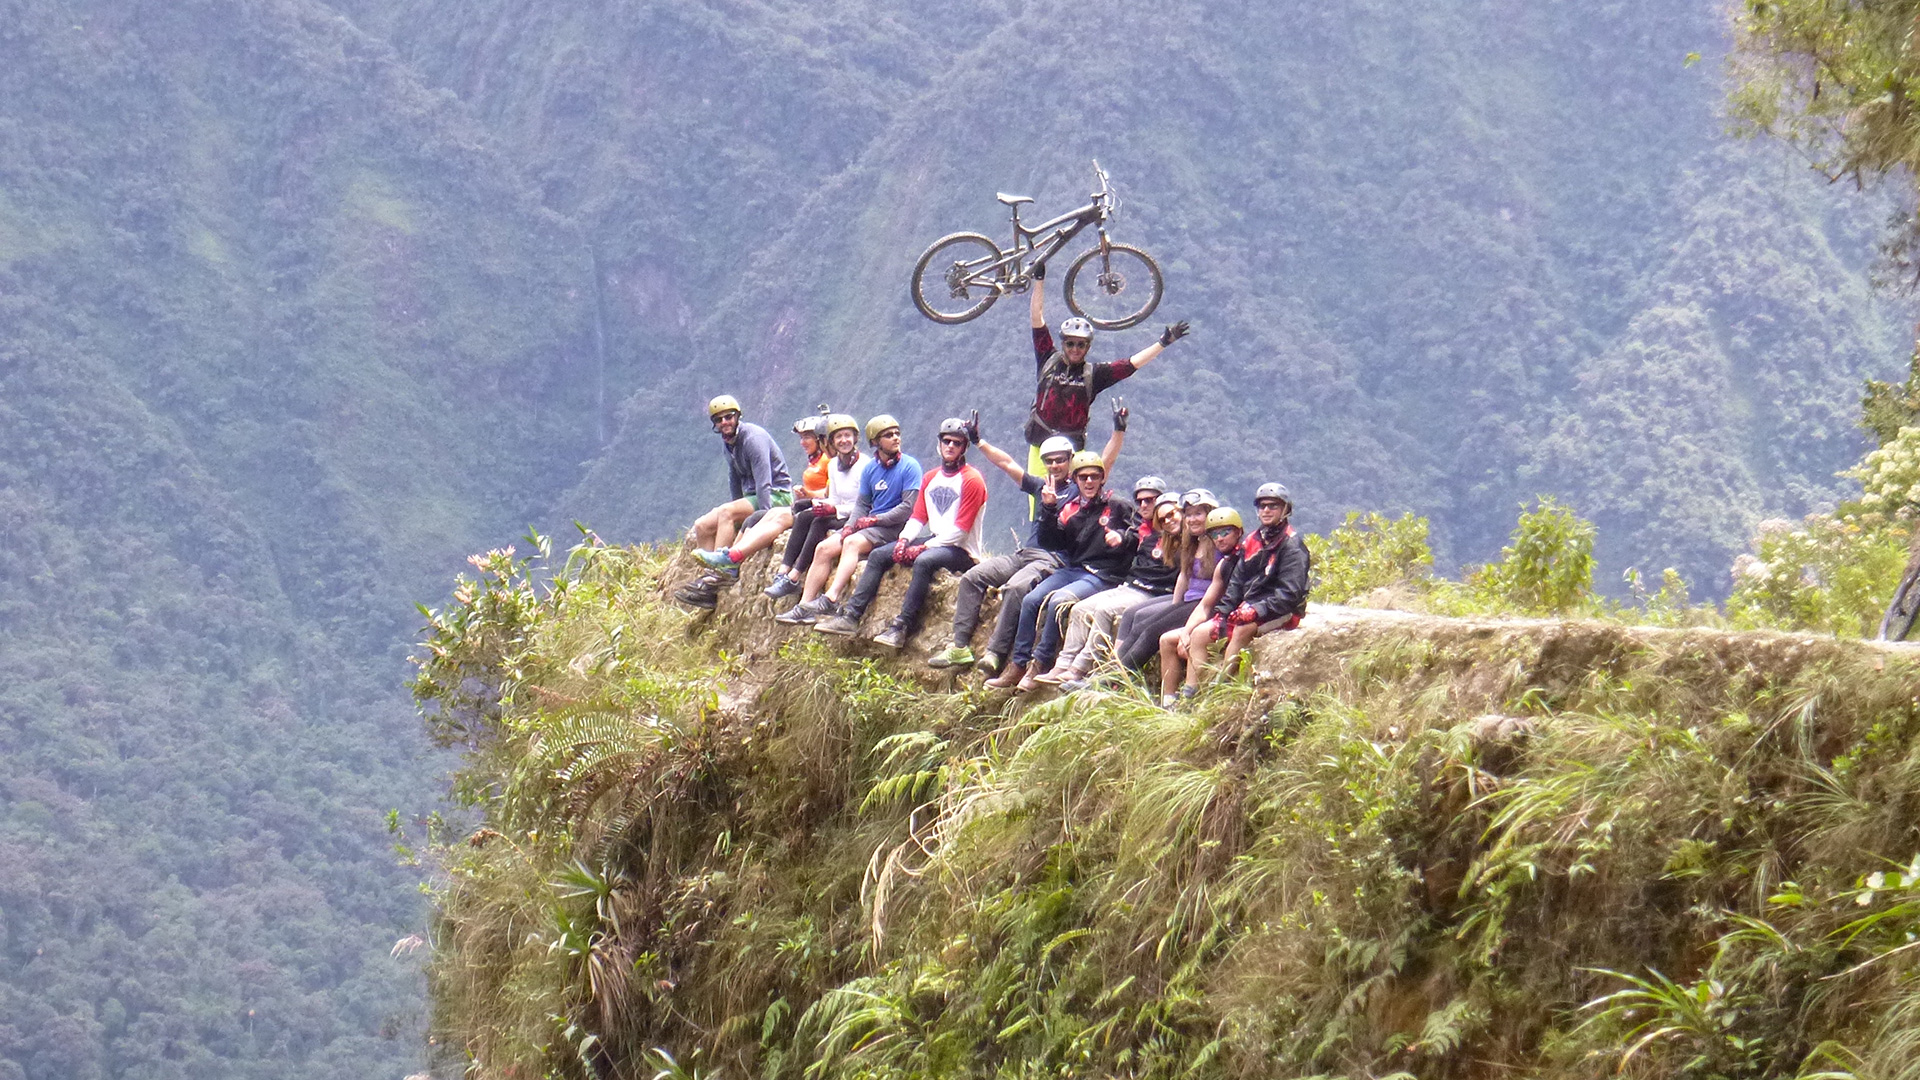
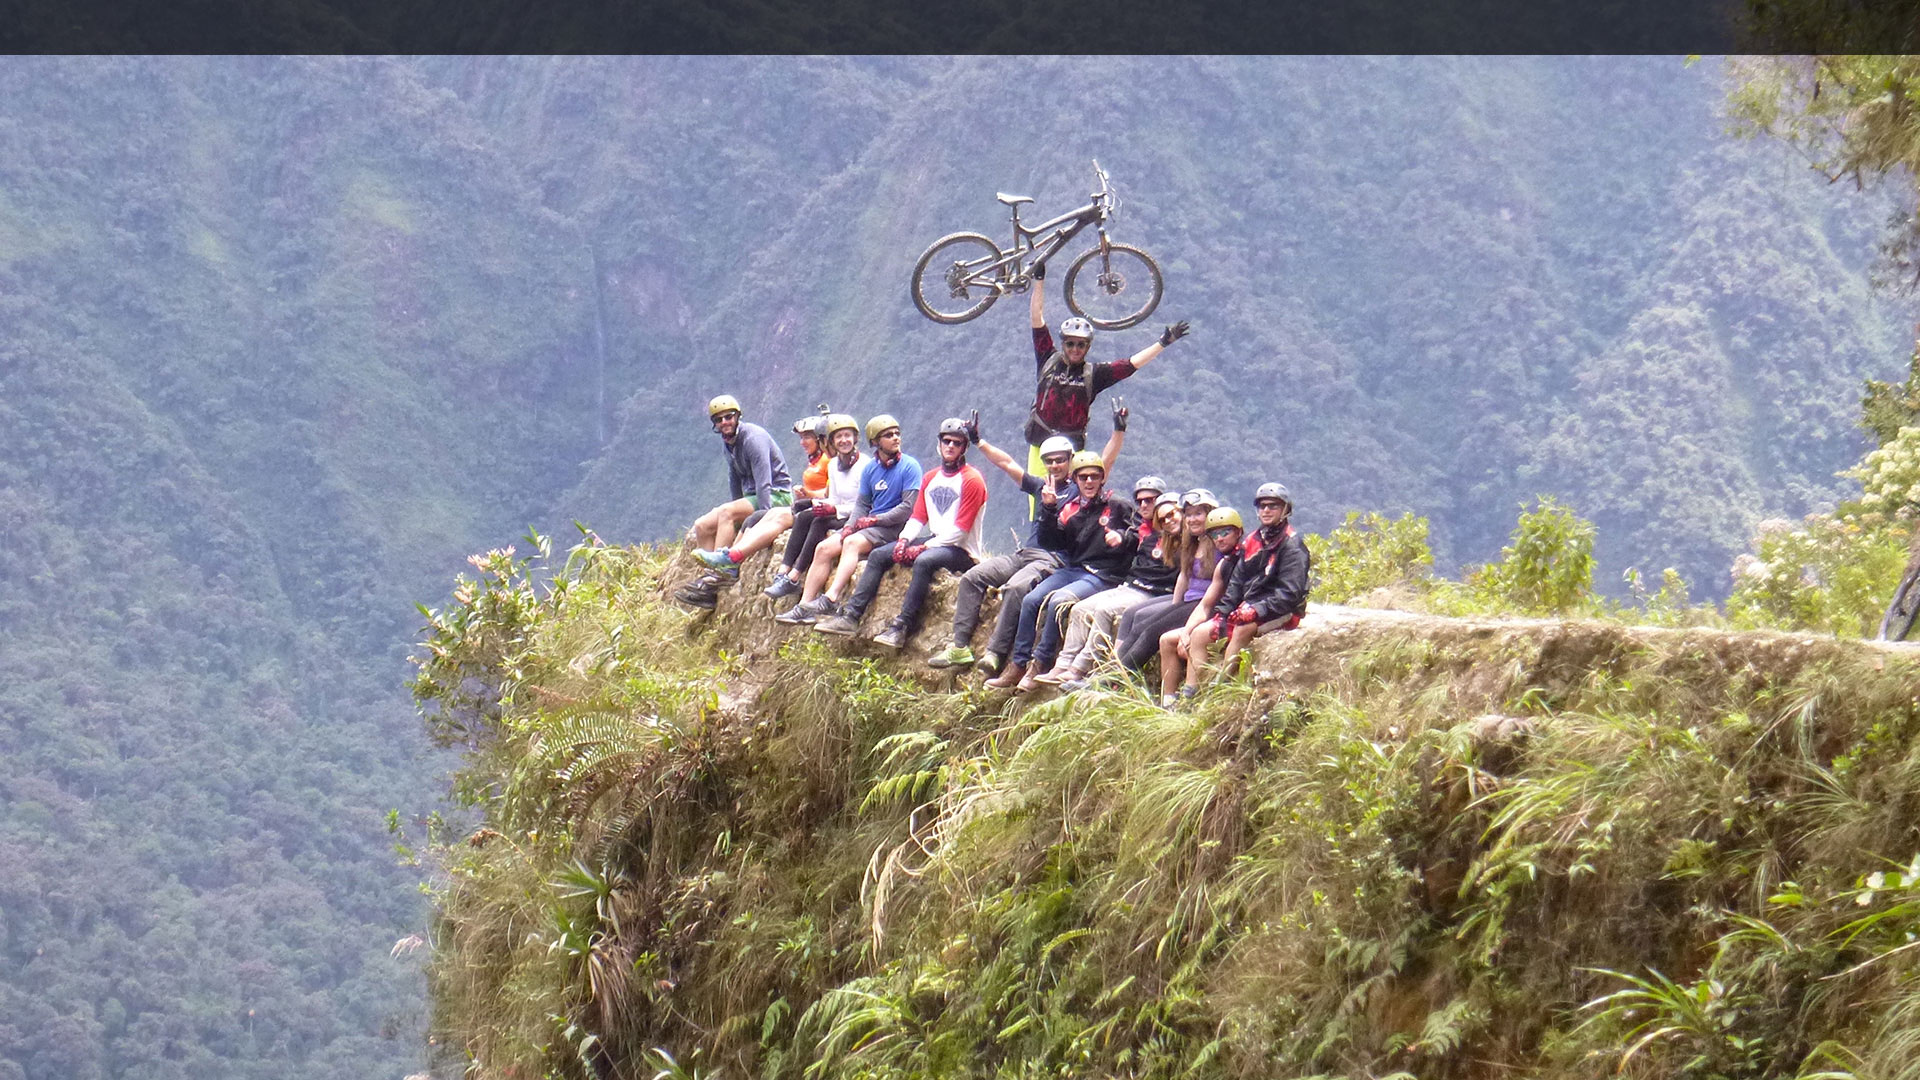
Imagenes con texto.

Changed region(s): [[0.0, 0.0, 1.0, 0.0611]]

diff --git a/index.html b/index.html
@@ -46,13 +46,21 @@
 }
 
 #section1 h1{
-	color: #CCC;
+	color: #DB6D00;
 	size: 28px;
 }
 #fondoBlanco{
 	background-color:#FFFFFF;
 	height:200px;
 	width:350px;
+}
+#infoService{
+	display: inline-block;
+	/* overflow: auto; */
+	width:450px;
+	height:200px;
+	margin-top:-250px;
+	text-align:left;
 }
     
 </style>
@@ -64,18 +72,21 @@
 		<li data-menuanchor="page1" class="active"><a href="#page1">Home</a></li>
 		<li data-menuanchor="page2"><a href="#page2">Services</a></li>
 		<li data-menuanchor="page3"><a href="#page3">Events</a></li>
-		<li data-menuanchor="page4"><a href="#page4">Contact</a></li>
+		<li data-menuanchor="page4"><a href="#page4">Contact us</a></li>
 	</ul>
 
     <div id="pagepiling">
         <div class="section" id="section1">
 			<h2>Join to the biggest bike community in Canada</h2>
-			<h1>bicycle repair, ride, community, parts</h1>
+			<h1>bicycle repair and parts, competitions, seminars, <br />
+		    and more!</h1>
 			
 		</div>
         <div class="section" id="section2">
-    
-<ul>
+        <div id="infoService">
+                <p><strong>Help at time</strong></p>
+
+        <ul>
 <li>Precision wheel truing and hub adjustments</li>
 <li>Shifter and derailleur adjustments</li>
 <li>Front and rear brake adjustments</li>
@@ -85,8 +96,10 @@
 <li>Lubrication of drivetrain</li>
 <li>Light frame and wheel cleaning</li>
 </ul>
-Hands On Repair Seminars
-Comprehensive hands on bicycle repair and maintenance course. Gain bicycle confidence and meet other cyclists. Learn to fix broken chains, properly size a new chain, flat tires, wobbly wheels, adjust bearings, remove crankarms, adjust gears, align derailleur hanger, tune brakes etc.
+        <p><strong>Hands On Repair Seminars</strong></p>
+        <p>Comprehensive hands on bicycle repair and maintenance course. Gain bicycle confidence and meet other cyclists. Learn to fix broken chains, properly size a new chain, flat tires, wobbly wheels, adjust bearings, remove crankarms, adjust gears, align derailleur hanger, tune brakes etc. </p>
+        </div>
+
 
 </div>
         <div class="section" id="section3">
@@ -95,6 +108,10 @@ Comprehensive hands on bicycle repair and maintenance course. Gain bicycle confi
           
 		</div>
         <div class="section" id="section4">
+        <div id="contacto">
+        <h1>Contact us</h1>
+        Find us beside Sherbourne Station every weekend at 6am. <br />416-999-0000. <br />
+        </div>
 			<iframe src="https://www.google.com/maps/embed?pb=!1m18!1m12!1m3!1d2885.8576633117314!2d-79.37583417715743!3d43.6719299926829!2m3!1f0!2f0!3f0!3m2!1i1024!2i768!4f13.1!3m3!1m2!1s0x89d4cb538b37944d%3A0x3667dfe371c21f7f!2sSherbourne+Station!5e0!3m2!1sen!2sca!4v1462890363289" width="600" height="450" frameborder="0" style="border:0" allowfullscreen></iframe>
 		</div>
     </div>
